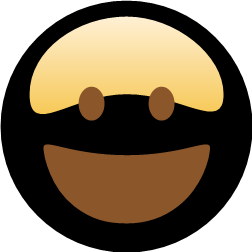
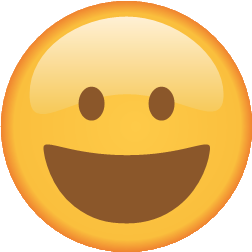
System.Drawing fonts and radial gradients

diff --git a/Platforms/NGraphics.Net/SystemDrawingPlatform.cs b/Platforms/NGraphics.Net/SystemDrawingPlatform.cs
@@ -83,6 +83,7 @@ namespace NGraphics
 		{
 			this.graphics = graphics;
 
+            graphics.TextRenderingHint = System.Drawing.Text.TextRenderingHint.AntiAlias;
 			graphics.SmoothingMode = SmoothingMode.HighQuality;
 		}
 
@@ -135,18 +136,17 @@ namespace NGraphics
 		{
 			if (brush == null)
 				return;
-			var sdfont = new System.Drawing.Font ("Georgia", 16);
+			var sdfont = new System.Drawing.Font (font.Family, (float)font.Size, FontStyle.Regular, GraphicsUnit.Pixel);
 			var sz = graphics.MeasureString (text, sdfont);
 			var point = frame.Position;
-			var fr = new Rect (point, new Size (sz.Width, sz.Height));
-			graphics.DrawString (text, sdfont, Conversions.GetBrush (brush, fr), Conversions.ToPointF (point));
+            var fr = new Rect (point, new Size (sz.Width, sz.Height));
+            graphics.DrawString (text, sdfont, Conversions.GetBrush (brush, fr), Conversions.ToPointF (point - new Point (0, sdfont.Height)));
 		}
 		public void DrawPath (IEnumerable<PathOp> ops, Pen pen = null, Brush brush = null)
 		{
 			using (var path = new GraphicsPath ()) {
 
-				Rect bb = new Rect ();
-				var nbb = 0;
+                var bb = new BoundingBoxBuilder ();
 
 				var position = Point.Zero;
 
@@ -155,11 +155,7 @@ namespace NGraphics
 					if (mt != null) {
 						var p = mt.Point;
 						position = p;
-						if (nbb == 0)
-							bb = new Rect (p, Size.Zero);
-						else
-							bb = bb.Union (p);
-						nbb++;
+                        bb.Add (p);
 						continue;
 					}
 					var lt = op as LineTo;
@@ -167,13 +163,17 @@ namespace NGraphics
 						var p = lt.Point;
 						path.AddLine (Conversions.ToPointF (position), Conversions.ToPointF (p));
 						position = p;
-						if (nbb == 0)
-							bb = new Rect (p, Size.Zero);
-						else
-							bb = bb.Union (p);
-						nbb++;
-						continue;
+                        bb.Add (p);
+                        continue;
 					}
+                    var at = op as ArcTo;
+                    if (at != null) {
+                        var p = at.Point;
+                        path.AddLine (Conversions.ToPointF (position), Conversions.ToPointF (p));
+                        position = p;
+                        bb.Add (p);
+                        continue;
+                    }
                     var ct = op as CurveTo;
                     if (ct != null) {
                         var p = ct.Point;
@@ -182,10 +182,9 @@ namespace NGraphics
                         path.AddBezier (Conversions.ToPointF (position), Conversions.ToPointF (c1),
                             Conversions.ToPointF (c2), Conversions.ToPointF (p));
                         position = p;
-                        if (nbb == 0)
-                            bb = new Rect (p, Size.Zero);
-                        bb = bb.Union (p).Union (c1).Union (c2);
-                        nbb++;
+                        bb.Add (p);
+                        bb.Add (c1);
+                        bb.Add (c2);
                         continue;
                     }
                     var cp = op as ClosePath;
@@ -197,7 +196,7 @@ namespace NGraphics
 					throw new NotSupportedException ("Path Op " + op);
 				}
 
-				var frame = bb;
+				var frame = bb.BoundingBox;
 				if (brush != null) {
 					graphics.FillPath (brush.GetBrush (frame), path);
 				}
@@ -240,52 +239,84 @@ namespace NGraphics
 			return new System.Drawing.Pen (GetColor (pen.Color), (float)pen.Width);
 		}
 
+        static ColorBlend BuildBlend (List<GradientStop> stops, bool reverse = false)
+        {
+            if (stops.Count < 2)
+                return null;
+
+            var s1 = stops[0];
+            var s2 = stops[stops.Count - 1];
+
+            // Build the blend
+            var n = stops.Count;
+            var an = 0;
+            if (s1.Offset != 0) {
+                an++;
+            }
+            if (s2.Offset != 1) {
+                an++;
+            }
+            var blend = new System.Drawing.Drawing2D.ColorBlend (n + an);
+            var o = 0;
+            if (s1.Offset != 0) {
+                blend.Colors[0] = GetColor (s1.Color);
+                blend.Positions[0] = 0;
+                o = 1;
+            }
+            for (var i = 0; i < n; i++) {
+                blend.Colors[i + o] = GetColor (stops[i].Color);
+                blend.Positions[i + o] = (float)stops[i].Offset;
+            }
+            if (s2.Offset != 1) {
+                blend.Colors[n + an - 1] = GetColor (s1.Color);
+                blend.Positions[n + an - 1] = 1;
+            }
+
+            if (reverse) {
+                for (var i = 0; i < blend.Positions.Length; i++) {
+                    blend.Positions[i] = 1 - blend.Positions[i];
+                }
+                Array.Reverse (blend.Positions);
+                Array.Reverse (blend.Colors);
+            }
+
+            return blend;
+        }
+
 		public static System.Drawing.Brush GetBrush (this Brush brush, Rect frame)
 		{
 			var cb = brush as SolidBrush;
 			if (cb != null) {
 				return new System.Drawing.SolidBrush (cb.Color.GetColor ());
 			}
+
             var lgb = brush as LinearGradientBrush;
-            if (lgb != null && lgb.Stops.Count >= 2) {
+            if (lgb != null) {
                 var s = frame.Position + lgb.RelativeStart * frame.Size;
                 var e = frame.Position + lgb.RelativeEnd * frame.Size;
-                var s1 = lgb.Stops[0];
-                var s2 = lgb.Stops[lgb.Stops.Count - 1];
-                var b = new System.Drawing.Drawing2D.LinearGradientBrush (ToPointF (s), ToPointF (e), GetColor (s1.Color), GetColor (s2.Color));
-
-                // Build the blend
-                var n = lgb.Stops.Count;
-                var an = 0;
-                if (s1.Offset != 0) {
-                    an++;
+                var b = new System.Drawing.Drawing2D.LinearGradientBrush (ToPointF (s), ToPointF (e), System.Drawing.Color.Black, System.Drawing.Color.Black);
+                var bb = BuildBlend (lgb.Stops);
+                if (bb != null) {
+                    b.InterpolationColors = bb;
                 }
-                if (s2.Offset != 1) {
-                    an++;
-                }
-                var blend = new System.Drawing.Drawing2D.ColorBlend (n + an);
-                var o = 0;
-                if (s1.Offset != 0) {
-                    blend.Colors[0] = GetColor (s1.Color);
-                    blend.Positions[0] = 0;
-                    o = 1;
-                }
-                for (var i = 0; i < n; i++) {
-                    blend.Colors[i + o] = GetColor (lgb.Stops[i].Color);
-                    blend.Positions[i + o] = (float)lgb.Stops[i].Offset;
-                }
-                if (s2.Offset != 1) {
-                    blend.Colors[n + an - 1] = GetColor (s1.Color);
-                    blend.Positions[n + an - 1] = 1;
-                }
-                b.InterpolationColors = blend;
-
-                // This is what we want but it doesn't work
-                //b.WrapMode = System.Drawing.Drawing2D.WrapMode.Clamp;
-
                 return b;
             }
-			return new System.Drawing.SolidBrush (System.Drawing.Color.Black);
+
+            var rgb = brush as RadialGradientBrush;
+            if (rgb != null) {
+                var r = rgb.RelativeRadius * frame.Size.Max;
+                var c = frame.Position + rgb.RelativeCenter * frame.Size;
+                var path = new GraphicsPath ();
+                path.AddEllipse (GetRectangle (new Rect (c - r, new Size (2*r))));
+                var b = new PathGradientBrush (path);
+                var bb = BuildBlend (rgb.Stops, true);
+                if (bb != null) {
+                    b.InterpolationColors = bb;
+                }
+                return b;
+            }
+
+			throw new NotImplementedException ("Brush " + brush);
 		}
 
         public static PointF ToPointF (Point point)
